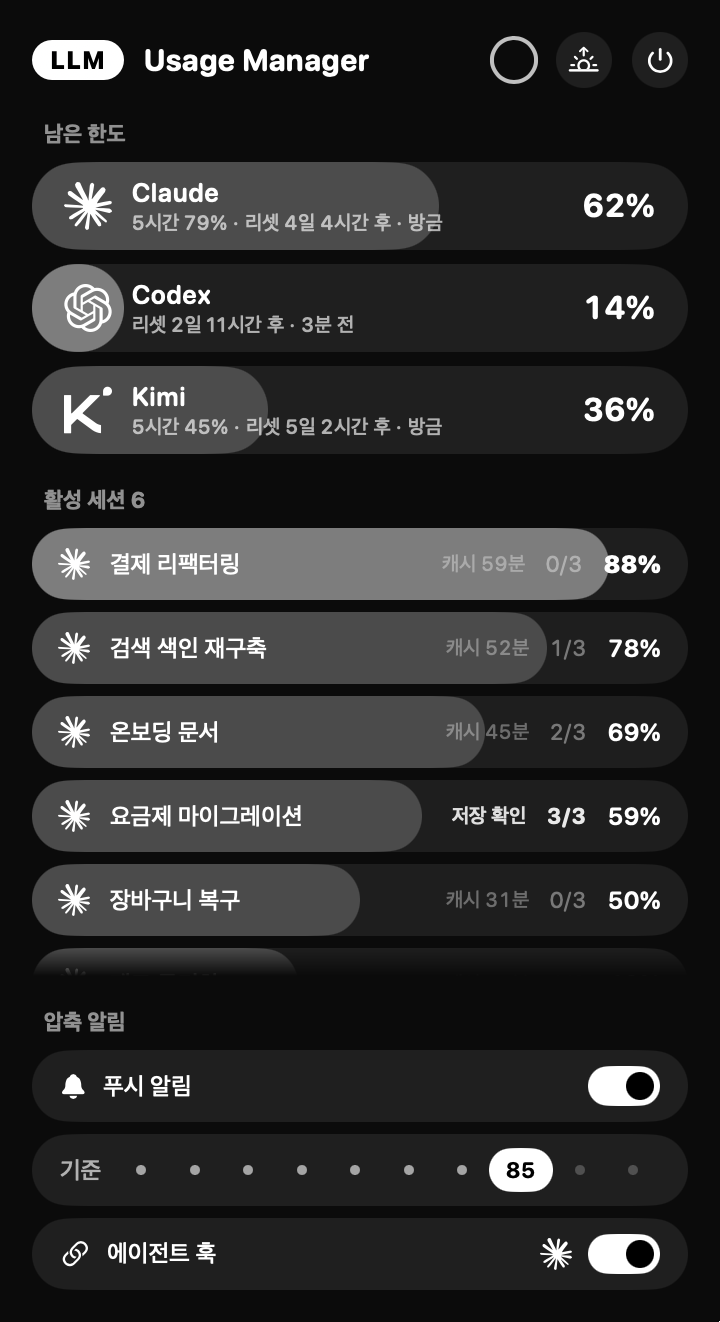
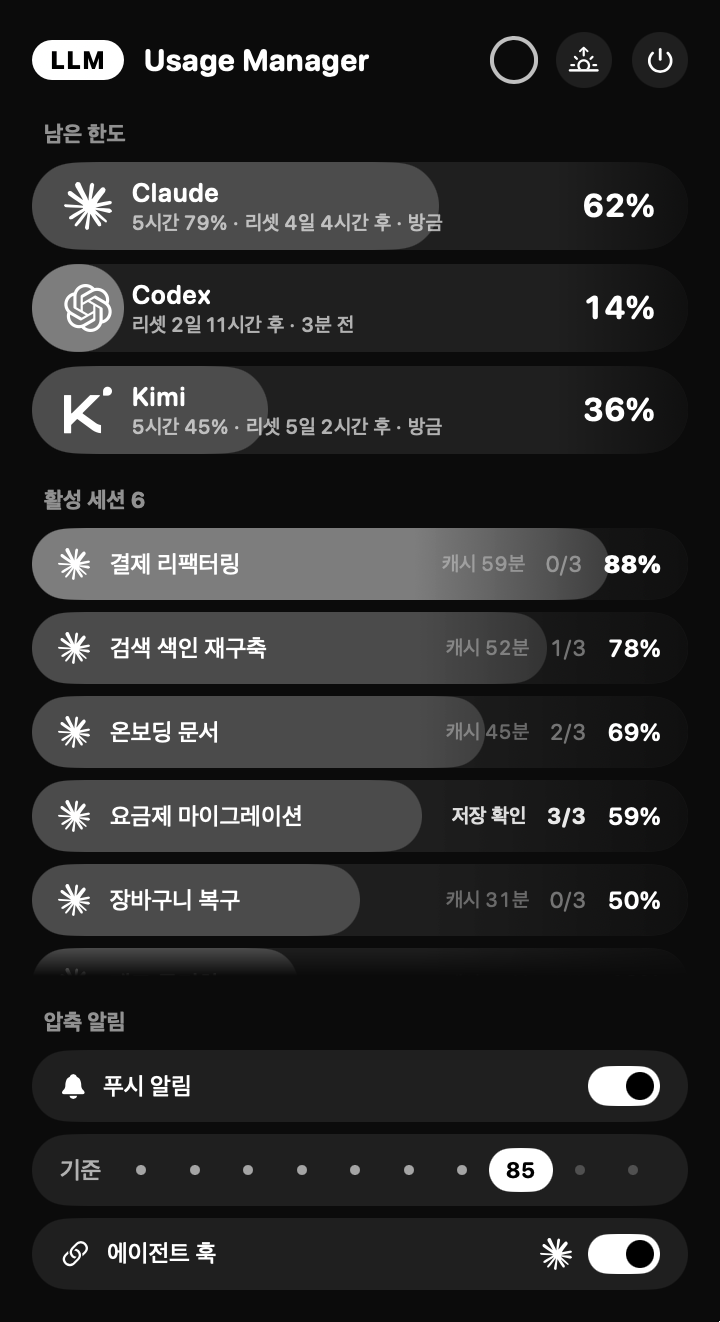
fix: keep the badges readable where the gauge runs under them
The bar fills the whole row, so a session near its limit had its edge cutting
across "clear 권장", the compaction count and the percentage, all of them white on
a lit bar. Behind that group the row now darkens towards its own edge: the bar
still runs the full width, which is what a full row has to look like, and the text
on top of it has something dark behind it.

The shade covers the row's height and reaches its edge, so the capsule keeps its
shape rather than showing a lit rim around a rectangle. It goes behind the group
as a whole — applied to the trailing views themselves it lands on each one and
leaves a staircase of separate patches.

Read at 20, 50, 70, 87, 95 and 100 per cent, rendered through --snap: every badge
and number is legible, and at 20 per cent the shade is invisible against the
plate. The quota rows share the row, so their subtitles were read the same way —
the bar's edge crosses them but both sides stay legible, and a shadow behind the
text made no visible difference, so none was added.

The demo takes USAGE_MANAGER_DEMO_PCT for exactly this kind of reading.

Reported by the moderator session from the v2.4 screenshot.

Changed region(s): [[0.6722, 0.3722, 0.8556, 0.4652]]

diff --git a/Sources/UsageManager/RootView.swift b/Sources/UsageManager/RootView.swift
@@ -73,11 +73,30 @@ private struct GaugeRow<Leading: View, Trailing: View>: View {
     @ViewBuilder let leading: Leading
     @ViewBuilder let trailing: Trailing
 
+    /// The bar runs the whole row, so at high occupancy it passes under the badges and
+    /// the number on the right and its edge cuts across them. Darkening just behind
+    /// those keeps them legible without stopping the bar short, which would make a full
+    /// row look unfinished.
+    private var shade: some View {
+        LinearGradient(colors: [RootView.panel.opacity(0), RootView.panel.opacity(0.78)],
+                       startPoint: .leading, endPoint: .trailing)
+    }
+
     var body: some View {
         HStack(spacing: 10) {
             leading
             Spacer(minLength: 6)
-            trailing
+            // One shade behind the whole group, not one behind each: the trailing views
+            // are a ViewBuilder, so a background applied to them lands on every one.
+            HStack(spacing: 10) { trailing }
+                .padding(.leading, 14)
+                // Reach the row's own edge and full height, so the shade ends where the
+                // capsule does instead of leaving a lit rim around it. The negative
+                // padding puts the layout back where it was.
+                .padding(.trailing, height * 0.36)
+                .frame(maxHeight: .infinity)
+                .background(shade)
+                .padding(.trailing, -height * 0.36)
         }
         .padding(.horizontal, height * 0.36)
         .frame(height: height)
@@ -99,6 +118,7 @@ struct RootView: View {
     /// Row surface on the dark panel.
     static let plate = Color.white.opacity(0.08)
     static let panelNS = NSColor(white: 0.045, alpha: 1)
+    static let panel = Color(nsColor: panelNS)
     @Environment(\.accessibilityReduceMotion) private var reduceMotion
     @Namespace private var chip
     @State private var contentHeight: CGFloat = 0

diff --git a/Sources/UsageManager/AppModel.swift b/Sources/UsageManager/AppModel.swift
@@ -271,15 +271,19 @@ final class AppModel: ObservableObject {
                        ctxTokens: 132_000, windowSize: 1_000_000, mtime: now.addingTimeInterval(-400),
                        cacheTTL: 3600, lastReplyAt: now.addingTimeInterval(-400), titleSource: "meta"),
         ]
-        // The list behaves differently once it runs past five rows, so a snapshot can
-        // ask for a given number of them.
-        if let want = ProcessInfo.processInfo.environment["USAGE_MANAGER_DEMO_ROWS"].flatMap(Int.init) {
+        // The list behaves differently once it runs past five rows, and the gauge behaves
+        // differently at high occupancy, so a snapshot can ask for a given number of rows
+        // or for given percentages.
+        let env = ProcessInfo.processInfo.environment
+        let asked = env["USAGE_MANAGER_DEMO_PCT"]?.split(separator: ",").compactMap { Int($0) }
+        if let want = asked?.count ?? env["USAGE_MANAGER_DEMO_ROWS"].flatMap(Int.init) {
             let names = ["결제 리팩터링", "검색 색인 재구축", "온보딩 문서", "요금제 마이그레이션",
                          "장바구니 복구", "재고 동기화", "알림 센터", "감사 로그 정리"]
             sessions = (0..<max(1, want)).map { i in
                 SessionCtx(tool: .claudeCode, sessionId: "demo\(i)", project: "proj\(i)",
                            title: names[i % names.count], model: "claude-opus-5",
-                           ctxTokens: 880_000 - i * 95_000, windowSize: 1_000_000,
+                           ctxTokens: asked.map { $0[i] * 10_000 } ?? (880_000 - i * 95_000),
+                           windowSize: 1_000_000,
                            mtime: now.addingTimeInterval(Double(-i) * 30),
                            compactions: i % 4, lastPostTokens: 31_000 + i * 900,
                            handoverSaved: i == 0 ? true : nil,

diff --git a/README.md b/README.md
@@ -50,6 +50,8 @@ Usage Manager는 이 둘을 한 화면에 올린다. 메뉴바 아이콘 하나,
 
 배경에서 도는 작업(`claude -p`, 서브에이전트)은 사람이 지켜보는 세션이 아니므로 목록에서 뺀다.
 
+게이지 막대는 행 전체를 지나가므로 점유율이 높으면 오른쪽 배지와 숫자 아래로 들어간다. 그 자리만 어둡게 깔아 글자가 읽히게 했다. 막대를 짧게 끊지 않은 것은 가득 찬 행이 덜 찬 것처럼 보이지 않게 하기 위해서다.
+
 세션이 다섯 개를 넘으면 목록의 높이를 그대로 두고 여섯 번째 줄의 윗부분만 내보인다. 스크롤 막대 대신 위아래 가장자리가 흐려지며, 끝에 닿은 쪽은 흐림이 사라져서 더 볼 것이 남았는지를 목록 자체가 말해 준다.
 
 ### 압축 알림
